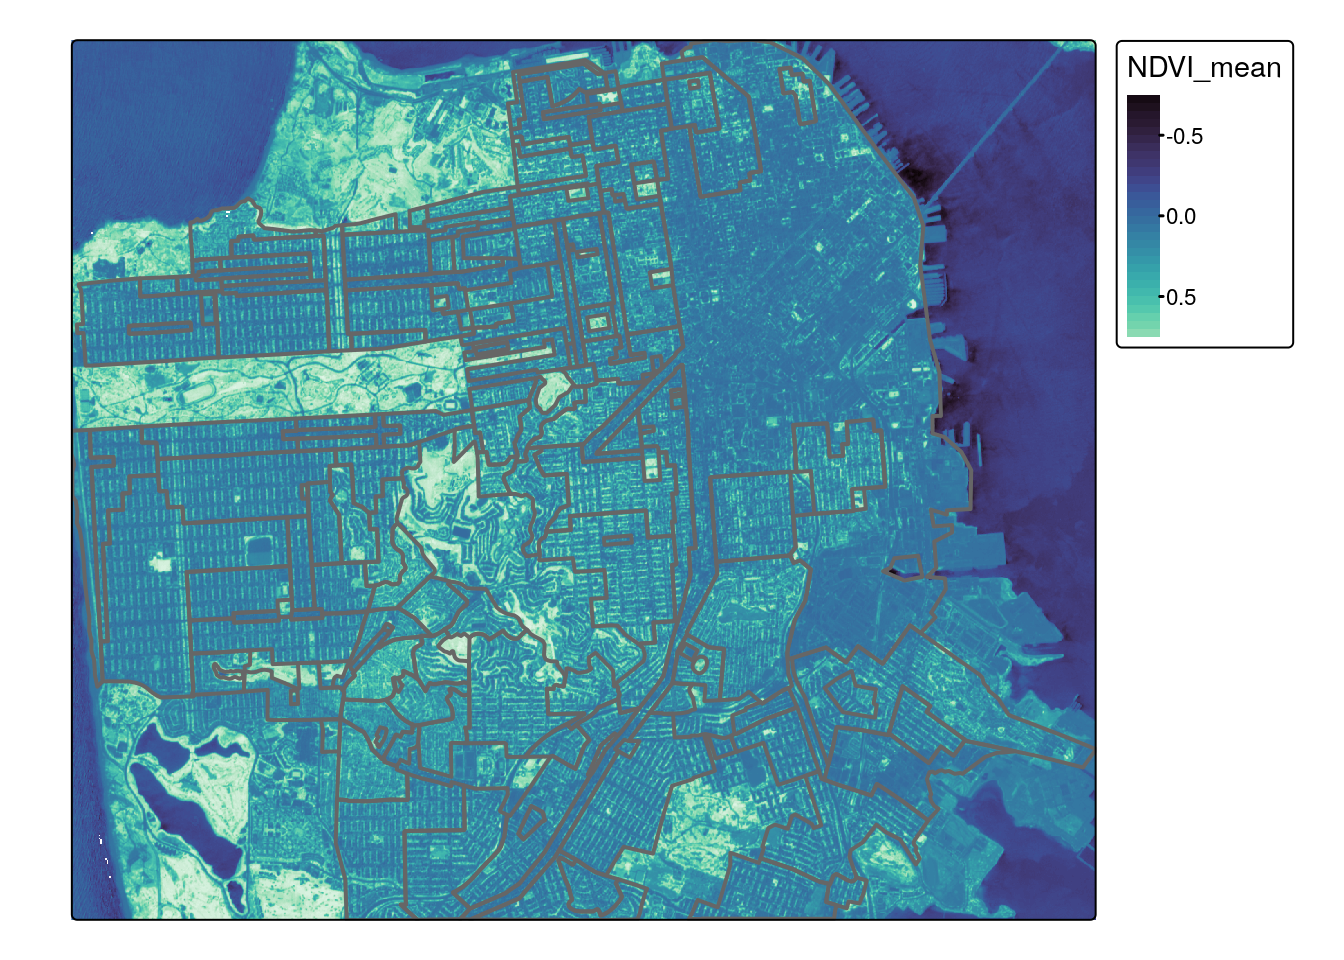
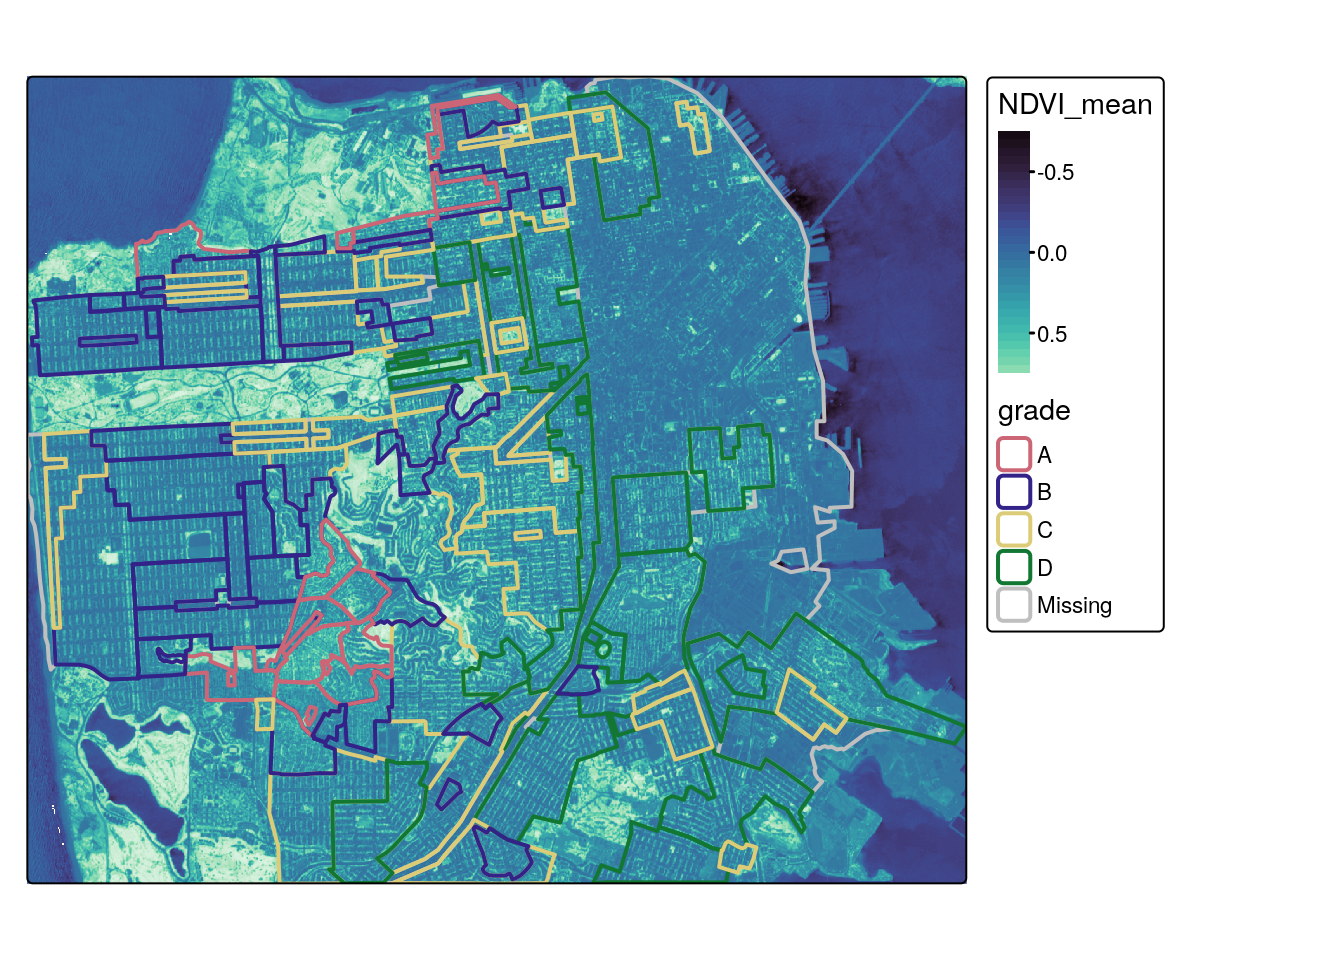
Built site for gh-pages

diff --git a/README.html b/README.html
@@ -7,7 +7,7 @@
 <meta name="viewport" content="width=device-width, initial-scale=1.0, user-scalable=yes">
 
 
-<title>about</title>
+<title>readme</title>
 <style>
 code{white-space: pre-wrap;}
 span.smallcaps{font-variant: small-caps;}
@@ -19,40 +19,6 @@ ul.task-list li input[type="checkbox"] {
   width: 0.8em;
   margin: 0 0.8em 0.2em -1em; /* quarto-specific, see https://github.com/quarto-dev/quarto-cli/issues/4556 */ 
   vertical-align: middle;
-}
-/* CSS for syntax highlighting */
-pre > code.sourceCode { white-space: pre; position: relative; }
-pre > code.sourceCode > span { display: inline-block; line-height: 1.25; }
-pre > code.sourceCode > span:empty { height: 1.2em; }
-.sourceCode { overflow: visible; }
-code.sourceCode > span { color: inherit; text-decoration: inherit; }
-div.sourceCode { margin: 1em 0; }
-pre.sourceCode { margin: 0; }
-@media screen {
-div.sourceCode { overflow: auto; }
-}
-@media print {
-pre > code.sourceCode { white-space: pre-wrap; }
-pre > code.sourceCode > span { text-indent: -5em; padding-left: 5em; }
-}
-pre.numberSource code
-  { counter-reset: source-line 0; }
-pre.numberSource code > span
-  { position: relative; left: -4em; counter-increment: source-line; }
-pre.numberSource code > span > a:first-child::before
-  { content: counter(source-line);
-    position: relative; left: -1em; text-align: right; vertical-align: baseline;
-    border: none; display: inline-block;
-    -webkit-touch-callout: none; -webkit-user-select: none;
-    -khtml-user-select: none; -moz-user-select: none;
-    -ms-user-select: none; user-select: none;
-    padding: 0 4px; width: 4em;
-  }
-pre.numberSource { margin-left: 3em;  padding-left: 4px; }
-div.sourceCode
-  {   }
-@media screen {
-pre > code.sourceCode > span > a:first-child::before { text-decoration: underline; }
 }
 </style>
 
@@ -110,12 +76,8 @@ pre > code.sourceCode > span > a:first-child::before { text-decoration: underlin
           <div class="collapse navbar-collapse" id="navbarCollapse">
             <ul class="navbar-nav navbar-nav-scroll me-auto">
   <li class="nav-item">
-    <a class="nav-link" href="./index.html" rel="" target="">
+    <a class="nav-link active" href="./README.html" rel="" target="" aria-current="page">
  <span class="menu-text">Home</span></a>
-  </li>  
-  <li class="nav-item">
-    <a class="nav-link active" href="./about.html" rel="" target="" aria-current="page">
- <span class="menu-text">About</span></a>
   </li>  
 </ul>
             <div class="quarto-navbar-tools ms-auto">
@@ -152,13 +114,13 @@ pre > code.sourceCode > span > a:first-child::before { text-decoration: underlin
           <li class="sidebar-item">
   <div class="sidebar-item-container"> 
   <a href="./notebook/example-1.html" class="sidebar-item-text sidebar-link">
- <span class="menu-text">example 1</span></a>
+ <span class="menu-text">1: Satellite data</span></a>
   </div>
 </li>
           <li class="sidebar-item">
   <div class="sidebar-item-container"> 
   <a href="./notebook/example-2.html" class="sidebar-item-text sidebar-link">
- <span class="menu-text">example 1</span></a>
+ <span class="menu-text">2: Adding Polygons</span></a>
   </div>
 </li>
       </ul>
@@ -174,34 +136,11 @@ pre > code.sourceCode > span > a:first-child::before { text-decoration: underlin
 
 
 
-<section id="section-1" class="level2">
-<h2 class="anchored" data-anchor-id="section-1">Section 1</h2>
-<ul>
-<li>items</li>
-<li>item <a href="https://example.com">link</a></li>
-</ul>
-<p>This is where I tell you about this project or about me…</p>
-<pre><code>this is a codeblock</code></pre>
-<p>getting the description just right</p>
-<div class="cell">
-<div class="sourceCode cell-code" id="cb2"><pre class="sourceCode r code-with-copy"><code class="sourceCode r"><span id="cb2-1"><a href="#cb2-1" aria-hidden="true" tabindex="-1"></a><span class="fu">library</span>(tidyverse)</span></code><button title="Copy to Clipboard" class="code-copy-button"><i class="bi"></i></button></pre></div>
-<div class="cell-output cell-output-stderr">
-<pre><code>── Attaching core tidyverse packages ──────────────────────── tidyverse 2.0.0 ──
-✔ dplyr     1.1.4     ✔ readr     2.1.4
-✔ forcats   1.0.0     ✔ stringr   1.5.1
-✔ ggplot2   3.4.4     ✔ tibble    3.2.1
-✔ lubridate 1.9.3     ✔ tidyr     1.3.0
-✔ purrr     1.0.2     
-── Conflicts ────────────────────────────────────────── tidyverse_conflicts() ──
-✖ dplyr::filter() masks stats::filter()
-✖ dplyr::lag()    masks stats::lag()
-ℹ Use the conflicted package (&lt;http://conflicted.r-lib.org/&gt;) to force all conflicts to become errors</code></pre>
-</div>
-<div class="sourceCode cell-code" id="cb4"><pre class="sourceCode r code-with-copy"><code class="sourceCode r"><span id="cb4-1"><a href="#cb4-1" aria-hidden="true" tabindex="-1"></a>mtcars <span class="sc">|&gt;</span> <span class="fu">ggplot</span>(<span class="fu">aes</span>(wt, mpg)) <span class="sc">+</span> <span class="fu">geom_line</span>()</span></code><button title="Copy to Clipboard" class="code-copy-button"><i class="bi"></i></button></pre></div>
-<div class="cell-output-display">
-<p><img src="about_files/figure-html/unnamed-chunk-2-1.png" class="img-fluid" width="672"></p>
-</div>
-</div>
+<section id="welcome" class="level1">
+<h1>Welcome</h1>
+<p>This GitHub repository + notebook provides the real-time notes for our exploratory course on Cloud Native Geospatial Data in R &amp; Python.</p>
+<p>The website is built using quarto to render qmd and ipynb files, and is rendered and published automatically through GitHub Actions.</p>
+<p>Users can use GitHub Codespaces to interactively run all files in the notebook for free and without installing any software.</p>
 
 
 </section>

diff --git a/notebook/example-2.html b/notebook/example-2.html
@@ -7,8 +7,9 @@
 <meta name="viewport" content="width=device-width, initial-scale=1.0, user-scalable=yes">
 
 <meta name="author" content="Carl Boettiger">
+<meta name="dcterms.date" content="2024-02-05">
 
-<title>example 1</title>
+<title>2: Adding Polygons</title>
 <style>
 code{white-space: pre-wrap;}
 span.smallcaps{font-variant: small-caps;}
@@ -111,12 +112,8 @@ pre > code.sourceCode > span > a:first-child::before { text-decoration: underlin
           <div class="collapse navbar-collapse" id="navbarCollapse">
             <ul class="navbar-nav navbar-nav-scroll me-auto">
   <li class="nav-item">
-    <a class="nav-link" href="../index.html" rel="" target="">
+    <a class="nav-link" href="../README.html" rel="" target="">
  <span class="menu-text">Home</span></a>
-  </li>  
-  <li class="nav-item">
-    <a class="nav-link" href="../about.html" rel="" target="">
- <span class="menu-text">About</span></a>
   </li>  
 </ul>
             <div class="quarto-navbar-tools ms-auto">
@@ -129,7 +126,7 @@ pre > code.sourceCode > span > a:first-child::before { text-decoration: underlin
       <button type="button" class="quarto-btn-toggle btn" data-bs-toggle="collapse" data-bs-target="#quarto-sidebar,#quarto-sidebar-glass" aria-controls="quarto-sidebar" aria-expanded="false" aria-label="Toggle sidebar navigation" onclick="if (window.quartoToggleHeadroom) { window.quartoToggleHeadroom(); }">
         <i class="bi bi-layout-text-sidebar-reverse"></i>
       </button>
-      <nav class="quarto-page-breadcrumbs" aria-label="breadcrumb"><ol class="breadcrumb"><li class="breadcrumb-item"><a href="../notebook/example-1.html">Notebook</a></li><li class="breadcrumb-item"><a href="../notebook/example-2.html">example 1</a></li></ol></nav>
+      <nav class="quarto-page-breadcrumbs" aria-label="breadcrumb"><ol class="breadcrumb"><li class="breadcrumb-item"><a href="../notebook/example-1.html">Notebook</a></li><li class="breadcrumb-item"><a href="../notebook/example-2.html">2: Adding Polygons</a></li></ol></nav>
       <a class="flex-grow-1" role="button" data-bs-toggle="collapse" data-bs-target="#quarto-sidebar,#quarto-sidebar-glass" aria-controls="quarto-sidebar" aria-expanded="false" aria-label="Toggle sidebar navigation" onclick="if (window.quartoToggleHeadroom) { window.quartoToggleHeadroom(); }">      
       </a>
     </div>
@@ -153,13 +150,13 @@ pre > code.sourceCode > span > a:first-child::before { text-decoration: underlin
           <li class="sidebar-item">
   <div class="sidebar-item-container"> 
   <a href="../notebook/example-1.html" class="sidebar-item-text sidebar-link">
- <span class="menu-text">example 1</span></a>
+ <span class="menu-text">1: Satellite data</span></a>
   </div>
 </li>
           <li class="sidebar-item">
   <div class="sidebar-item-container"> 
   <a href="../notebook/example-2.html" class="sidebar-item-text sidebar-link active">
- <span class="menu-text">example 1</span></a>
+ <span class="menu-text">2: Adding Polygons</span></a>
   </div>
 </li>
       </ul>
@@ -175,7 +172,7 @@ pre > code.sourceCode > span > a:first-child::before { text-decoration: underlin
 
 <header id="title-block-header" class="quarto-title-block default">
 <div class="quarto-title">
-<h1 class="title">example 1</h1>
+<h1 class="title">2: Adding Polygons</h1>
 </div>
 
 
@@ -189,6 +186,12 @@ pre > code.sourceCode > span > a:first-child::before { text-decoration: underlin
           </div>
   </div>
     
+    <div>
+    <div class="quarto-title-meta-heading">Published</div>
+    <div class="quarto-title-meta-contents">
+      <p class="date">February 5, 2024</p>
+    </div>
+  </div>
   
     
   </div>
@@ -275,7 +278,7 @@ as a single band source</code></pre>
 <span id="cb11-2"><a href="#cb11-2" aria-hidden="true" tabindex="-1"></a>fill <span class="ot">&lt;-</span> <span class="fu">tm_scale_continuous</span>(<span class="at">values =</span> <span class="st">"Greens"</span>)</span>
 <span id="cb11-3"><a href="#cb11-3" aria-hidden="true" tabindex="-1"></a></span>
 <span id="cb11-4"><a href="#cb11-4" aria-hidden="true" tabindex="-1"></a><span class="fu">tm_shape</span>(ndvi_stars) <span class="sc">+</span> <span class="fu">tm_raster</span>(<span class="at">col.scale =</span> mako) <span class="sc">+</span> </span>
-<span id="cb11-5"><a href="#cb11-5" aria-hidden="true" tabindex="-1"></a>  <span class="fu">tm_shape</span>(sf_redlines) <span class="sc">+</span> <span class="fu">tm_borders</span>(<span class="at">lwd=</span><span class="dv">2</span>)</span></code><button title="Copy to Clipboard" class="code-copy-button"><i class="bi"></i></button></pre></div>
+<span id="cb11-5"><a href="#cb11-5" aria-hidden="true" tabindex="-1"></a>  <span class="fu">tm_shape</span>(sf_redlines) <span class="sc">+</span> <span class="fu">tm_borders</span>(<span class="st">"grade"</span>, <span class="at">lwd=</span><span class="dv">2</span>)</span></code><button title="Copy to Clipboard" class="code-copy-button"><i class="bi"></i></button></pre></div>
 <div class="cell-output cell-output-stderr">
 <pre><code>Warning in value[[3L]](cond): could not rename the data.table</code></pre>
 </div>

diff --git a/notebook/example-1.html b/notebook/example-1.html
@@ -7,8 +7,9 @@
 <meta name="viewport" content="width=device-width, initial-scale=1.0, user-scalable=yes">
 
 <meta name="author" content="Carl Boettiger">
+<meta name="dcterms.date" content="2024-01-31">
 
-<title>example 1</title>
+<title>1: Satellite data</title>
 <style>
 code{white-space: pre-wrap;}
 span.smallcaps{font-variant: small-caps;}
@@ -111,12 +112,8 @@ pre > code.sourceCode > span > a:first-child::before { text-decoration: underlin
           <div class="collapse navbar-collapse" id="navbarCollapse">
             <ul class="navbar-nav navbar-nav-scroll me-auto">
   <li class="nav-item">
-    <a class="nav-link" href="../index.html" rel="" target="">
+    <a class="nav-link" href="../README.html" rel="" target="">
  <span class="menu-text">Home</span></a>
-  </li>  
-  <li class="nav-item">
-    <a class="nav-link" href="../about.html" rel="" target="">
- <span class="menu-text">About</span></a>
   </li>  
 </ul>
             <div class="quarto-navbar-tools ms-auto">
@@ -129,7 +126,7 @@ pre > code.sourceCode > span > a:first-child::before { text-decoration: underlin
       <button type="button" class="quarto-btn-toggle btn" data-bs-toggle="collapse" data-bs-target="#quarto-sidebar,#quarto-sidebar-glass" aria-controls="quarto-sidebar" aria-expanded="false" aria-label="Toggle sidebar navigation" onclick="if (window.quartoToggleHeadroom) { window.quartoToggleHeadroom(); }">
         <i class="bi bi-layout-text-sidebar-reverse"></i>
       </button>
-      <nav class="quarto-page-breadcrumbs" aria-label="breadcrumb"><ol class="breadcrumb"><li class="breadcrumb-item"><a href="../notebook/example-1.html">Notebook</a></li><li class="breadcrumb-item"><a href="../notebook/example-1.html">example 1</a></li></ol></nav>
+      <nav class="quarto-page-breadcrumbs" aria-label="breadcrumb"><ol class="breadcrumb"><li class="breadcrumb-item"><a href="../notebook/example-1.html">Notebook</a></li><li class="breadcrumb-item"><a href="../notebook/example-1.html">1: Satellite data</a></li></ol></nav>
       <a class="flex-grow-1" role="button" data-bs-toggle="collapse" data-bs-target="#quarto-sidebar,#quarto-sidebar-glass" aria-controls="quarto-sidebar" aria-expanded="false" aria-label="Toggle sidebar navigation" onclick="if (window.quartoToggleHeadroom) { window.quartoToggleHeadroom(); }">      
       </a>
     </div>
@@ -153,13 +150,13 @@ pre > code.sourceCode > span > a:first-child::before { text-decoration: underlin
           <li class="sidebar-item">
   <div class="sidebar-item-container"> 
   <a href="../notebook/example-1.html" class="sidebar-item-text sidebar-link active">
- <span class="menu-text">example 1</span></a>
+ <span class="menu-text">1: Satellite data</span></a>
   </div>
 </li>
           <li class="sidebar-item">
   <div class="sidebar-item-container"> 
   <a href="../notebook/example-2.html" class="sidebar-item-text sidebar-link">
- <span class="menu-text">example 1</span></a>
+ <span class="menu-text">2: Adding Polygons</span></a>
   </div>
 </li>
       </ul>
@@ -175,7 +172,7 @@ pre > code.sourceCode > span > a:first-child::before { text-decoration: underlin
 
 <header id="title-block-header" class="quarto-title-block default">
 <div class="quarto-title">
-<h1 class="title">example 1</h1>
+<h1 class="title">1: Satellite data</h1>
 </div>
 
 
@@ -189,6 +186,12 @@ pre > code.sourceCode > span > a:first-child::before { text-decoration: underlin
           </div>
   </div>
     
+    <div>
+    <div class="quarto-title-meta-heading">Published</div>
+    <div class="quarto-title-meta-contents">
+      <p class="date">January 31, 2024</p>
+    </div>
+  </div>
   
     
   </div>

diff --git a/index.html b/index.html
@@ -76,12 +76,8 @@ ul.task-list li input[type="checkbox"] {
           <div class="collapse navbar-collapse" id="navbarCollapse">
             <ul class="navbar-nav navbar-nav-scroll me-auto">
   <li class="nav-item">
-    <a class="nav-link active" href="./index.html" rel="" target="" aria-current="page">
+    <a class="nav-link" href="./README.html" rel="" target="">
  <span class="menu-text">Home</span></a>
-  </li>  
-  <li class="nav-item">
-    <a class="nav-link" href="./about.html" rel="" target="">
- <span class="menu-text">About</span></a>
   </li>  
 </ul>
             <div class="quarto-navbar-tools ms-auto">
@@ -118,13 +114,13 @@ ul.task-list li input[type="checkbox"] {
           <li class="sidebar-item">
   <div class="sidebar-item-container"> 
   <a href="./notebook/example-1.html" class="sidebar-item-text sidebar-link">
- <span class="menu-text">example 1</span></a>
+ <span class="menu-text">1: Satellite data</span></a>
   </div>
 </li>
           <li class="sidebar-item">
   <div class="sidebar-item-container"> 
   <a href="./notebook/example-2.html" class="sidebar-item-text sidebar-link">
- <span class="menu-text">example 1</span></a>
+ <span class="menu-text">2: Adding Polygons</span></a>
   </div>
 </li>
       </ul>
